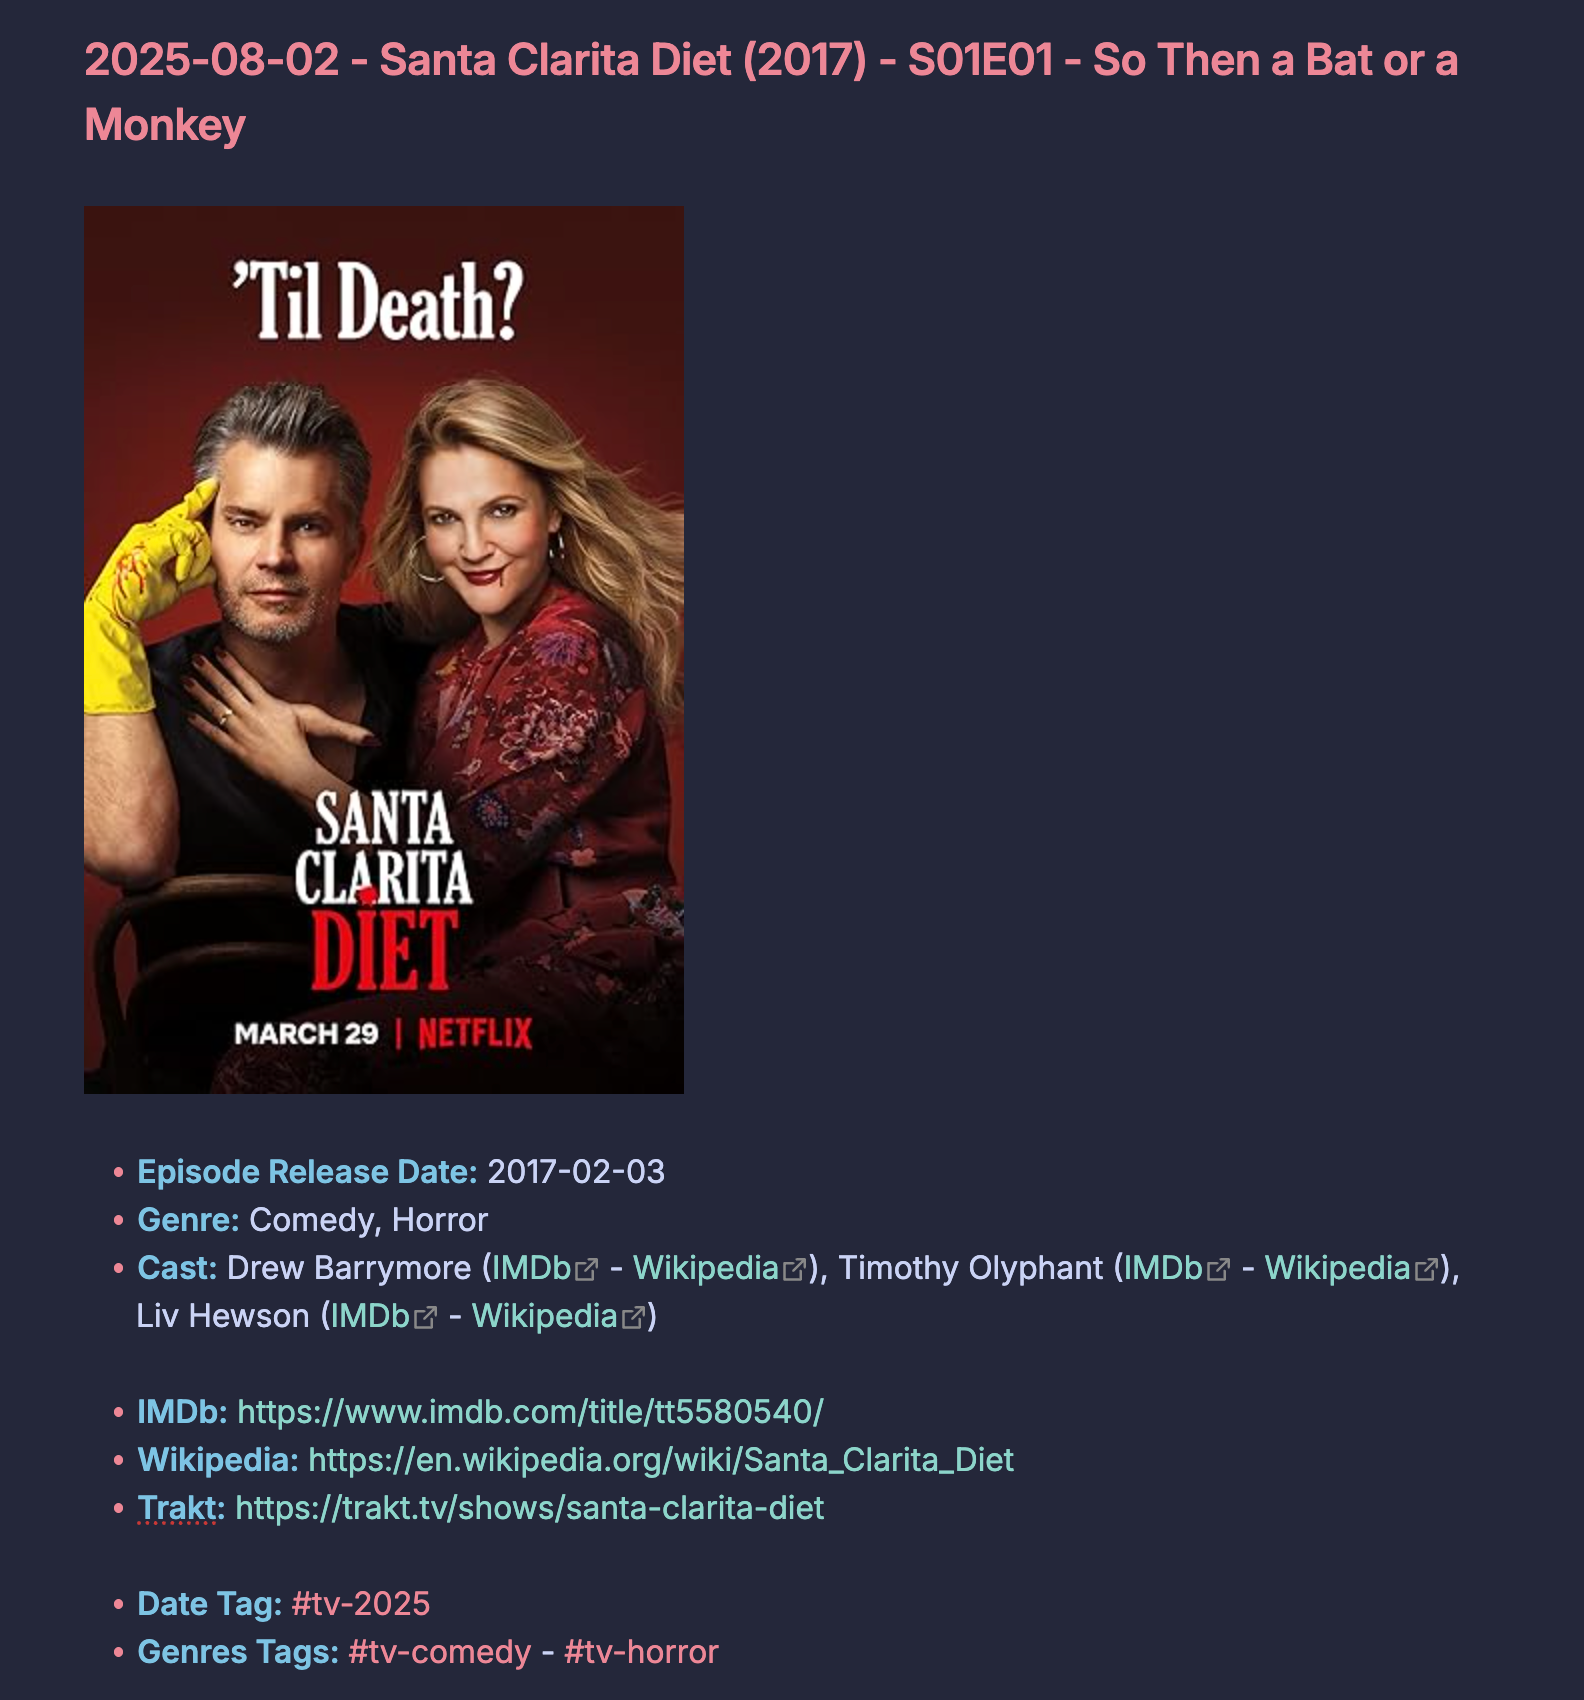
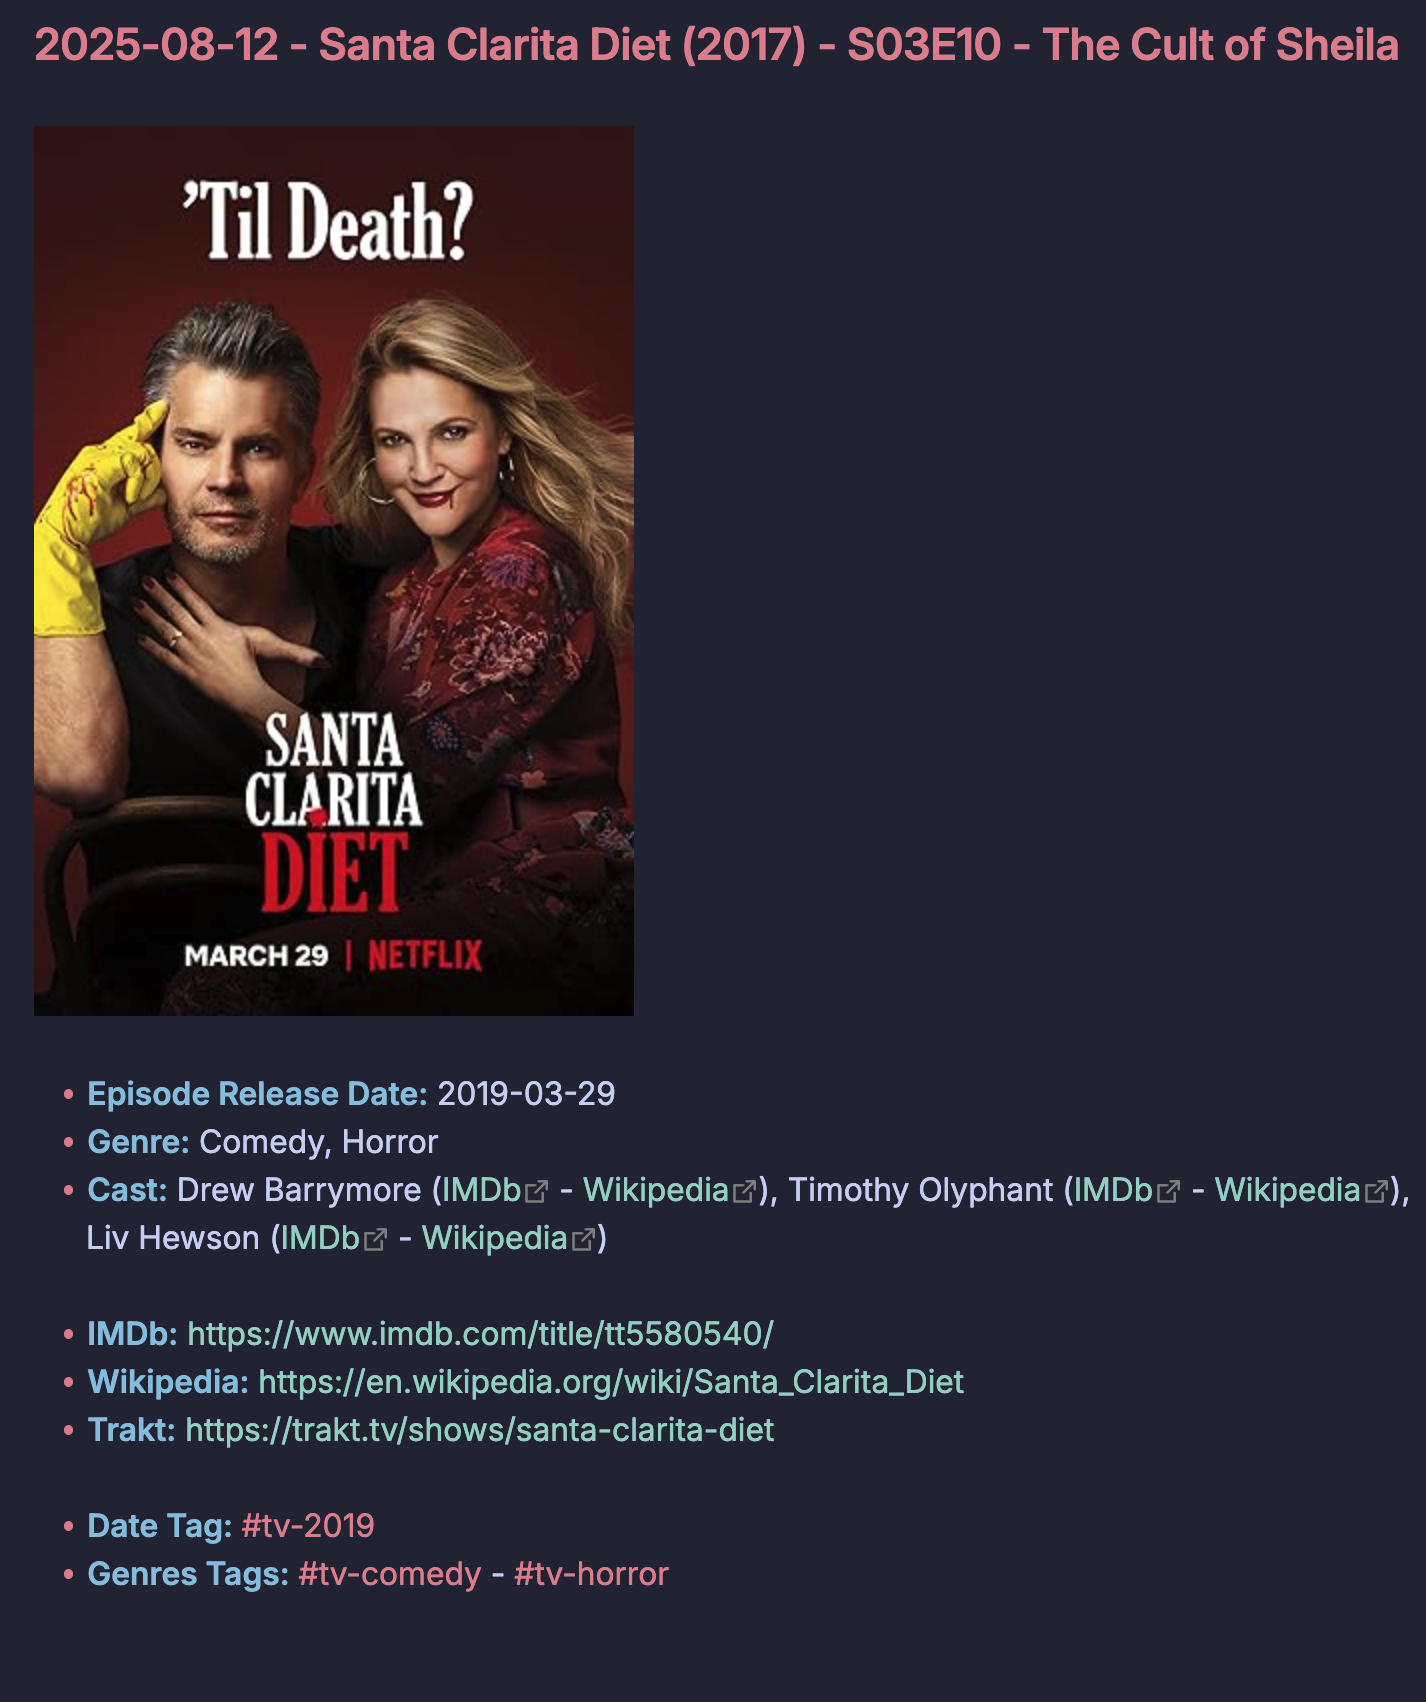
Fix the 'date tag' so that it uses movie/episode release date instead of watched date

Changed region(s): [[0.0, 0.0, 0.9874, 0.9976]]

diff --git a/trakt_to_markdown_fullsize.py b/trakt_to_markdown_fullsize.py
@@ -506,7 +506,7 @@ def movie_entry_md(e):
         lines.append(f"- **Trakt:** {e['trakt_url']}\n")
     if e.get("comment"):
         lines.append(f"\n> {e['comment']}\n")
-    year_tag_val = f"#movie-{e['watched_at'].year}" if e.get("watched_at") else "movie-unknown"
+    year_tag_val = f"#movie-{e['year']}" if e.get("year") else "movie-unknown"
     lines.append(f"- **Date Tag:** {year_tag_val}")
     lines.append(f"- **Genres Tags:** {genre_tags_line(e.get('genres', []), 'movie')}\n")
     lines.append("\n---\n")
@@ -540,8 +540,11 @@ def tv_entry_md(e):
         lines.append(f"- **Trakt:** {e['trakt_url']}\n")
     if e.get("comment"):
         lines.append(f"\n> {e['comment']}\n")
-    # New Date Tag ("tv-YYYY")
-    year_tag_val = f"#tv-{e['watched_at'].year}" if e.get("watched_at") else "tv-unknown"
+    # Use the episode release year for the Date Tag
+    if e.get("released_at"):
+        year_tag_val = f"#tv-{e['released_at'].year}"
+    else:
+        year_tag_val = "tv-unknown"
     lines.append(f"- **Date Tag:** {year_tag_val}")
     lines.append(f"- **Genres Tags:** {genre_tags_line(e.get('genres', []), 'tv')}\n")
     lines.append("\n---\n")

diff --git a/trakt_to_markdown.py b/trakt_to_markdown.py
@@ -494,7 +494,7 @@ def movie_entry_md(e):
         lines.append(f"- **Trakt:** {e['trakt_url']}\n")
     if e.get("comment"):
         lines.append(f"\n> {e['comment']}\n")
-    year_tag_val = f"#movie-{e['watched_at'].year}" if e.get("watched_at") else "movie-unknown"
+    year_tag_val = f"#movie-{e['year']}" if e.get("year") else "movie-unknown"
     lines.append(f"- **Date Tag:** {year_tag_val}")
     lines.append(f"- **Genres Tags:** {genre_tags_line(e.get('genres', []), 'movie')}\n")
     lines.append("\n---\n")
@@ -528,7 +528,11 @@ def tv_entry_md(e):
         lines.append(f"- **Trakt:** {e['trakt_url']}\n")
     if e.get("comment"):
         lines.append(f"\n> {e['comment']}\n")
-    year_tag_val = f"#tv-{e['watched_at'].year}" if e.get("watched_at") else "tv-unknown"
+    # Use the episode release year for the Date Tag
+    if e.get("released_at"):
+        year_tag_val = f"#tv-{e['released_at'].year}"
+    else:
+        year_tag_val = "tv-unknown"
     lines.append(f"- **Date Tag:** {year_tag_val}")
     lines.append(f"- **Genres Tags:** {genre_tags_line(e.get('genres', []), 'tv')}\n")
     lines.append("\n---\n")

diff --git a/README.md b/README.md
@@ -33,7 +33,7 @@ Convert your [Trakt](https://trakt.tv/) export into beautiful, chronological mar
 ## Usage
 
 1. **Export your Trakt data** from [your settings page](https://trakt.tv/settings/data).
-2. **Extract your Trakt data to a folder named bellow "trakt-export"
+2. **Extract your Trakt data to a folder named bellow "trakt-export"**
 2. **Obtain a free OMDB API key:** [Get it here.](https://www.omdbapi.com/apikey.aspx)
 3. **Install the dependency:**
    ```sh
@@ -63,31 +63,31 @@ Note: When moving the output to the software you're using, it is strongly encour
 ### Movie
 
 ```markdown
-### 2023-02-04 - Pulp Fiction (1994)
+### 2026-02-12 - PG: Psycho Goreman (2020)
 
-![cover](00-Posters/tt0110912.jpg)
+![cover](00-Posters/tt11252440.jpg)
 
 - **Rating:** ⭐⭐⭐⭐⭐⭐⭐⭐⭐⭐ (10/10)
 
-- **Genre:** Crime, Drama
-- **Cast:** John Travolta ([IMDb](https://www.imdb.com/find/?q=John+Travolta&s=nm) - [Wikipedia](https://en.wikipedia.org/wiki/John_Travolta)), Uma Thurman ([IMDb](https://www.imdb.com/find/?q=Uma+Thurman&s=nm) - [Wikipedia](https://en.wikipedia.org/wiki/Uma_Thurman)), Samuel L. Jackson ([IMDb](https://www.imdb.com/find/?q=Samuel+L.+Jackson&s=nm) - [Wikipedia](https://en.wikipedia.org/wiki/Samuel_L._Jackson))
+- **Genre:** Comedy, Horror, Sci-Fi
+- **Cast:** Nita-Josée Hanna ([IMDb](https://www.imdb.com/find/?q=Nita-Jos%C3%A9e+Hanna&s=nm) - [Wikipedia](https://en.wikipedia.org/wiki/Nita-Jos%C3%A9e_Hanna)), Owen Myre ([IMDb](https://www.imdb.com/find/?q=Owen+Myre&s=nm) - [Wikipedia](https://en.wikipedia.org/wiki/Owen_Myre)), Matthew Ninaber ([IMDb](https://www.imdb.com/find/?q=Matthew+Ninaber&s=nm) - [Wikipedia](https://en.wikipedia.org/wiki/Matthew_Ninaber))
 
-- **IMDb:** https://www.imdb.com/title/tt0110912/
-- **Wikipedia:** https://en.wikipedia.org/wiki/Pulp_Fiction
-- **Trakt:** https://trakt.tv/movies/pulp-fiction-1994
+- **IMDb:** https://www.imdb.com/title/tt11252440/
+- **Wikipedia:** https://en.wikipedia.org/wiki/PG%3A_Psycho_Goreman
+- **Trakt:** https://trakt.tv/movies/pg-psycho-goreman-2020
 
-- **Date Tag:** #movie-2023
-- **Genres Tags:** #movie-crime - #movie-drama
+- **Date Tag:** #movie-2020
+- **Genres Tags:** #movie-comedy - #movie-horror - #movie-sci-fi
 ```
 
 ### TV Episode
 
 ```markdown
-### 2025-08-02 - Santa Clarita Diet (2017) - S01E01 - So Then a Bat or a Monkey
+### 2025-08-12 - Santa Clarita Diet (2017) - S03E10 - The Cult of Sheila
 
 ![cover](00-Posters/tt5580540.jpg)
 
-- **Episode Release Date:** 2017-02-03
+- **Episode Release Date:** 2019-03-29
 - **Genre:** Comedy, Horror
 - **Cast:** Drew Barrymore ([IMDb](https://www.imdb.com/find/?q=Drew+Barrymore&s=nm) - [Wikipedia](https://en.wikipedia.org/wiki/Drew_Barrymore)), Timothy Olyphant ([IMDb](https://www.imdb.com/find/?q=Timothy+Olyphant&s=nm) - [Wikipedia](https://en.wikipedia.org/wiki/Timothy_Olyphant)), Liv Hewson ([IMDb](https://www.imdb.com/find/?q=Liv+Hewson&s=nm) - [Wikipedia](https://en.wikipedia.org/wiki/Liv_Hewson))
 
@@ -95,7 +95,7 @@ Note: When moving the output to the software you're using, it is strongly encour
 - **Wikipedia:** https://en.wikipedia.org/wiki/Santa_Clarita_Diet
 - **Trakt:** https://trakt.tv/shows/santa-clarita-diet
 
-- **Date Tag:** #tv-2025
+- **Date Tag:** #tv-2019
 - **Genres Tags:** #tv-comedy - #tv-horror
 ```
 
